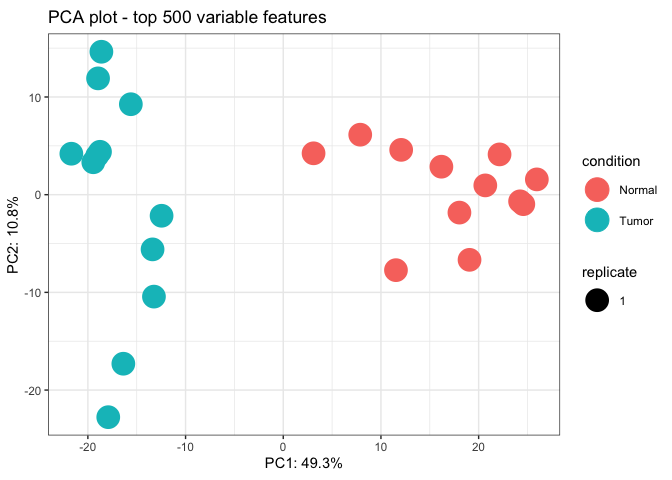
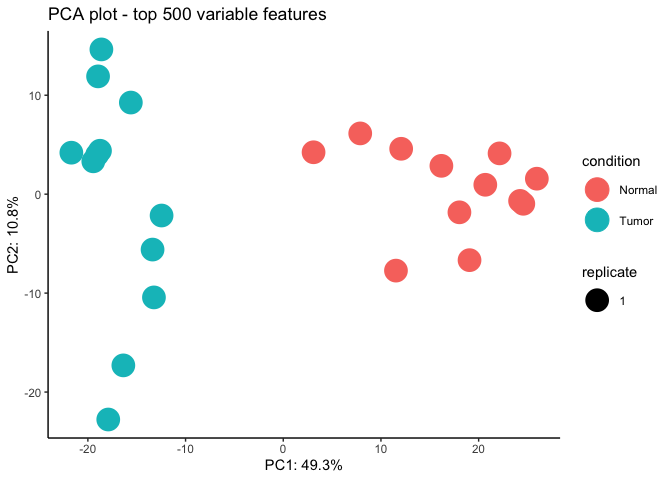
update plotting style

diff --git a/vignettes/tutorial.md b/vignettes/tutorial.md
@@ -1,5 +1,5 @@
 ---
-title: "FragPipeAnalystR Tutorial"
+title: "FragPipeAnalystR Get Started Tutorial"
 output:
   html_document:
     keep_md: yes
@@ -43,6 +43,21 @@ plot_feature_numbers(ccrcc)
 ```
 
 ![](tutorial_files/figure-html/unnamed-chunk-5-1.png)<!-- -->
+
+
+```r
+plot_feature(ccrcc, c("CA9", "AHNAK2", "NDUFV2", "PIGR"))
+```
+
+![](tutorial_files/figure-html/unnamed-chunk-6-1.png)<!-- -->
+
+
+```r
+# note that this example dataset has the DE result added already
+plot_volcano(ccrcc, "Tumor_vs_Normal")
+```
+
+![](tutorial_files/figure-html/unnamed-chunk-7-1.png)<!-- -->
 
 
 ```r
